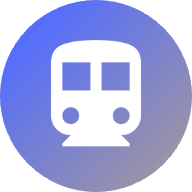
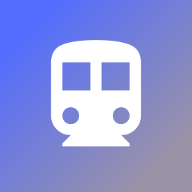
chore: 아이콘 이미지파일 수정

diff --git a/mysubway-pwa/public/sw.js b/mysubway-pwa/public/sw.js
@@ -1,1 +1,1 @@
-if(!self.define){let e,s={};const a=(a,n)=>(a=new URL(a+".js",n).href,s[a]||new Promise(s=>{if("document"in self){const e=document.createElement("script");e.src=a,e.onload=s,document.head.appendChild(e)}else e=a,importScripts(a),s()}).then(()=>{let e=s[a];if(!e)throw new Error(`Module ${a} didn’t register its module`);return e}));self.define=(n,i)=>{const t=e||("document"in self?document.currentScript.src:"")||location.href;if(s[t])return;let c={};const o=e=>a(e,t),r={module:{uri:t},exports:c,require:o};s[t]=Promise.all(n.map(e=>r[e]||o(e))).then(e=>(i(...e),c))}}define(["./workbox-4754cb34"],function(e){"use strict";importScripts(),self.skipWaiting(),e.clientsClaim(),e.precacheAndRoute([{url:"/_next/app-build-manifest.json",revision:"2cda8dfa4ddecfea06740d83e442d178"},{url:"/_next/static/chunks/4bd1b696-67ee12fb04071d3b.js",revision:"kUHfXqYyoOY7CD3_bs3oo"},{url:"/_next/static/chunks/63-11f4d058746abff6.js",revision:"kUHfXqYyoOY7CD3_bs3oo"},{url:"/_next/static/chunks/684-42609a042cd3abcf.js",revision:"kUHfXqYyoOY7CD3_bs3oo"},{url:"/_next/static/chunks/app/_not-found/page-f08302ee705a96b1.js",revision:"kUHfXqYyoOY7CD3_bs3oo"},{url:"/_next/static/chunks/app/layout-9bb7a2d1016d411d.js",revision:"kUHfXqYyoOY7CD3_bs3oo"},{url:"/_next/static/chunks/app/page-36ecf300b3f2c124.js",revision:"kUHfXqYyoOY7CD3_bs3oo"},{url:"/_next/static/chunks/framework-f593a28cde54158e.js",revision:"kUHfXqYyoOY7CD3_bs3oo"},{url:"/_next/static/chunks/main-3f62defe5261c06a.js",revision:"kUHfXqYyoOY7CD3_bs3oo"},{url:"/_next/static/chunks/main-app-a4836f5e9693b294.js",revision:"kUHfXqYyoOY7CD3_bs3oo"},{url:"/_next/static/chunks/pages/_app-da15c11dea942c36.js",revision:"kUHfXqYyoOY7CD3_bs3oo"},{url:"/_next/static/chunks/pages/_error-cc3f077a18ea1793.js",revision:"kUHfXqYyoOY7CD3_bs3oo"},{url:"/_next/static/chunks/polyfills-42372ed130431b0a.js",revision:"846118c33b2c0e922d7b3a7676f81f6f"},{url:"/_next/static/chunks/webpack-f029a09104d09cbc.js",revision:"kUHfXqYyoOY7CD3_bs3oo"},{url:"/_next/static/css/f0411033d528775d.css",revision:"f0411033d528775d"},{url:"/_next/static/kUHfXqYyoOY7CD3_bs3oo/_buildManifest.js",revision:"56313a2fa41efe17a9286c47ac6aacba"},{url:"/_next/static/kUHfXqYyoOY7CD3_bs3oo/_ssgManifest.js",revision:"b6652df95db52feb4daf4eca35380933"},{url:"/_next/static/media/569ce4b8f30dc480-s.p.woff2",revision:"ef6cefb32024deac234e82f932a95cbd"},{url:"/_next/static/media/747892c23ea88013-s.woff2",revision:"a0761690ccf4441ace5cec893b82d4ab"},{url:"/_next/static/media/8d697b304b401681-s.woff2",revision:"cc728f6c0adb04da0dfcb0fc436a8ae5"},{url:"/_next/static/media/93f479601ee12b01-s.p.woff2",revision:"da83d5f06d825c5ae65b7cca706cb312"},{url:"/_next/static/media/9610d9e46709d722-s.woff2",revision:"7b7c0ef93df188a852344fc272fc096b"},{url:"/_next/static/media/ba015fad6dcf6784-s.woff2",revision:"8ea4f719af3312a055caf09f34c89a77"},{url:"/file.svg",revision:"d09f95206c3fa0bb9bd9fefabfd0ea71"},{url:"/globe.svg",revision:"2aaafa6a49b6563925fe440891e32717"},{url:"/icon-192.png",revision:"ad044dfae40bc1a12b650b7ca63116ed"},{url:"/icon-512.png",revision:"059b7d82051e21e6c5b2fdbbf6094401"},{url:"/manifest.json",revision:"d41d8cd98f00b204e9800998ecf8427e"},{url:"/next.svg",revision:"8e061864f388b47f33a1c3780831193e"},{url:"/vercel.svg",revision:"c0af2f507b369b085b35ef4bbe3bcf1e"},{url:"/window.svg",revision:"a2760511c65806022ad20adf74370ff3"}],{ignoreURLParametersMatching:[]}),e.cleanupOutdatedCaches(),e.registerRoute("/",new e.NetworkFirst({cacheName:"start-url",plugins:[{cacheWillUpdate:async({request:e,response:s,event:a,state:n})=>s&&"opaqueredirect"===s.type?new Response(s.body,{status:200,statusText:"OK",headers:s.headers}):s}]}),"GET"),e.registerRoute(/^https:\/\/fonts\.(?:gstatic)\.com\/.*/i,new e.CacheFirst({cacheName:"google-fonts-webfonts",plugins:[new e.ExpirationPlugin({maxEntries:4,maxAgeSeconds:31536e3})]}),"GET"),e.registerRoute(/^https:\/\/fonts\.(?:googleapis)\.com\/.*/i,new e.StaleWhileRevalidate({cacheName:"google-fonts-stylesheets",plugins:[new e.ExpirationPlugin({maxEntries:4,maxAgeSeconds:604800})]}),"GET"),e.registerRoute(/\.(?:eot|otf|ttc|ttf|woff|woff2|font.css)$/i,new e.StaleWhileRevalidate({cacheName:"static-font-assets",plugins:[new e.ExpirationPlugin({maxEntries:4,maxAgeSeconds:604800})]}),"GET"),e.registerRoute(/\.(?:jpg|jpeg|gif|png|svg|ico|webp)$/i,new e.StaleWhileRevalidate({cacheName:"static-image-assets",plugins:[new e.ExpirationPlugin({maxEntries:64,maxAgeSeconds:86400})]}),"GET"),e.registerRoute(/\/_next\/image\?url=.+$/i,new e.StaleWhileRevalidate({cacheName:"next-image",plugins:[new e.ExpirationPlugin({maxEntries:64,maxAgeSeconds:86400})]}),"GET"),e.registerRoute(/\.(?:mp3|wav|ogg)$/i,new e.CacheFirst({cacheName:"static-audio-assets",plugins:[new e.RangeRequestsPlugin,new e.ExpirationPlugin({maxEntries:32,maxAgeSeconds:86400})]}),"GET"),e.registerRoute(/\.(?:mp4)$/i,new e.CacheFirst({cacheName:"static-video-assets",plugins:[new e.RangeRequestsPlugin,new e.ExpirationPlugin({maxEntries:32,maxAgeSeconds:86400})]}),"GET"),e.registerRoute(/\.(?:js)$/i,new e.StaleWhileRevalidate({cacheName:"static-js-assets",plugins:[new e.ExpirationPlugin({maxEntries:32,maxAgeSeconds:86400})]}),"GET"),e.registerRoute(/\.(?:css|less)$/i,new e.StaleWhileRevalidate({cacheName:"static-style-assets",plugins:[new e.ExpirationPlugin({maxEntries:32,maxAgeSeconds:86400})]}),"GET"),e.registerRoute(/\/_next\/data\/.+\/.+\.json$/i,new e.StaleWhileRevalidate({cacheName:"next-data",plugins:[new e.ExpirationPlugin({maxEntries:32,maxAgeSeconds:86400})]}),"GET"),e.registerRoute(/\.(?:json|xml|csv)$/i,new e.NetworkFirst({cacheName:"static-data-assets",plugins:[new e.ExpirationPlugin({maxEntries:32,maxAgeSeconds:86400})]}),"GET"),e.registerRoute(({url:e})=>{if(!(self.origin===e.origin))return!1;const s=e.pathname;return!s.startsWith("/api/auth/")&&!!s.startsWith("/api/")},new e.NetworkFirst({cacheName:"apis",networkTimeoutSeconds:10,plugins:[new e.ExpirationPlugin({maxEntries:16,maxAgeSeconds:86400})]}),"GET"),e.registerRoute(({url:e})=>{if(!(self.origin===e.origin))return!1;return!e.pathname.startsWith("/api/")},new e.NetworkFirst({cacheName:"others",networkTimeoutSeconds:10,plugins:[new e.ExpirationPlugin({maxEntries:32,maxAgeSeconds:86400})]}),"GET"),e.registerRoute(({url:e})=>!(self.origin===e.origin),new e.NetworkFirst({cacheName:"cross-origin",networkTimeoutSeconds:10,plugins:[new e.ExpirationPlugin({maxEntries:32,maxAgeSeconds:3600})]}),"GET")});
+if(!self.define){let e,s={};const a=(a,n)=>(a=new URL(a+".js",n).href,s[a]||new Promise(s=>{if("document"in self){const e=document.createElement("script");e.src=a,e.onload=s,document.head.appendChild(e)}else e=a,importScripts(a),s()}).then(()=>{let e=s[a];if(!e)throw new Error(`Module ${a} didn’t register its module`);return e}));self.define=(n,i)=>{const t=e||("document"in self?document.currentScript.src:"")||location.href;if(s[t])return;let c={};const r=e=>a(e,t),o={module:{uri:t},exports:c,require:r};s[t]=Promise.all(n.map(e=>o[e]||r(e))).then(e=>(i(...e),c))}}define(["./workbox-4754cb34"],function(e){"use strict";importScripts(),self.skipWaiting(),e.clientsClaim(),e.precacheAndRoute([{url:"/_next/app-build-manifest.json",revision:"2cda8dfa4ddecfea06740d83e442d178"},{url:"/_next/static/9XYmy9OXFUXywhEUKAx4W/_buildManifest.js",revision:"56313a2fa41efe17a9286c47ac6aacba"},{url:"/_next/static/9XYmy9OXFUXywhEUKAx4W/_ssgManifest.js",revision:"b6652df95db52feb4daf4eca35380933"},{url:"/_next/static/chunks/4bd1b696-67ee12fb04071d3b.js",revision:"9XYmy9OXFUXywhEUKAx4W"},{url:"/_next/static/chunks/63-11f4d058746abff6.js",revision:"9XYmy9OXFUXywhEUKAx4W"},{url:"/_next/static/chunks/684-42609a042cd3abcf.js",revision:"9XYmy9OXFUXywhEUKAx4W"},{url:"/_next/static/chunks/app/_not-found/page-f08302ee705a96b1.js",revision:"9XYmy9OXFUXywhEUKAx4W"},{url:"/_next/static/chunks/app/layout-9bb7a2d1016d411d.js",revision:"9XYmy9OXFUXywhEUKAx4W"},{url:"/_next/static/chunks/app/page-36ecf300b3f2c124.js",revision:"9XYmy9OXFUXywhEUKAx4W"},{url:"/_next/static/chunks/framework-f593a28cde54158e.js",revision:"9XYmy9OXFUXywhEUKAx4W"},{url:"/_next/static/chunks/main-3f62defe5261c06a.js",revision:"9XYmy9OXFUXywhEUKAx4W"},{url:"/_next/static/chunks/main-app-a4836f5e9693b294.js",revision:"9XYmy9OXFUXywhEUKAx4W"},{url:"/_next/static/chunks/pages/_app-da15c11dea942c36.js",revision:"9XYmy9OXFUXywhEUKAx4W"},{url:"/_next/static/chunks/pages/_error-cc3f077a18ea1793.js",revision:"9XYmy9OXFUXywhEUKAx4W"},{url:"/_next/static/chunks/polyfills-42372ed130431b0a.js",revision:"846118c33b2c0e922d7b3a7676f81f6f"},{url:"/_next/static/chunks/webpack-f029a09104d09cbc.js",revision:"9XYmy9OXFUXywhEUKAx4W"},{url:"/_next/static/css/f0411033d528775d.css",revision:"f0411033d528775d"},{url:"/_next/static/media/569ce4b8f30dc480-s.p.woff2",revision:"ef6cefb32024deac234e82f932a95cbd"},{url:"/_next/static/media/747892c23ea88013-s.woff2",revision:"a0761690ccf4441ace5cec893b82d4ab"},{url:"/_next/static/media/8d697b304b401681-s.woff2",revision:"cc728f6c0adb04da0dfcb0fc436a8ae5"},{url:"/_next/static/media/93f479601ee12b01-s.p.woff2",revision:"da83d5f06d825c5ae65b7cca706cb312"},{url:"/_next/static/media/9610d9e46709d722-s.woff2",revision:"7b7c0ef93df188a852344fc272fc096b"},{url:"/_next/static/media/ba015fad6dcf6784-s.woff2",revision:"8ea4f719af3312a055caf09f34c89a77"},{url:"/file.svg",revision:"d09f95206c3fa0bb9bd9fefabfd0ea71"},{url:"/globe.svg",revision:"2aaafa6a49b6563925fe440891e32717"},{url:"/icon-192-1.png",revision:"ad044dfae40bc1a12b650b7ca63116ed"},{url:"/icon-192.png",revision:"50fc72dff467b0d9745e19e545fa28d9"},{url:"/icon-512-2.png",revision:"059b7d82051e21e6c5b2fdbbf6094401"},{url:"/icon-512.png",revision:"efb98293216c856ad0111be67f01892b"},{url:"/manifest.json",revision:"b4a5915e4cfc6cb5a025413e34b653bc"},{url:"/next.svg",revision:"8e061864f388b47f33a1c3780831193e"},{url:"/vercel.svg",revision:"c0af2f507b369b085b35ef4bbe3bcf1e"},{url:"/window.svg",revision:"a2760511c65806022ad20adf74370ff3"}],{ignoreURLParametersMatching:[]}),e.cleanupOutdatedCaches(),e.registerRoute("/",new e.NetworkFirst({cacheName:"start-url",plugins:[{cacheWillUpdate:async({request:e,response:s,event:a,state:n})=>s&&"opaqueredirect"===s.type?new Response(s.body,{status:200,statusText:"OK",headers:s.headers}):s}]}),"GET"),e.registerRoute(/^https:\/\/fonts\.(?:gstatic)\.com\/.*/i,new e.CacheFirst({cacheName:"google-fonts-webfonts",plugins:[new e.ExpirationPlugin({maxEntries:4,maxAgeSeconds:31536e3})]}),"GET"),e.registerRoute(/^https:\/\/fonts\.(?:googleapis)\.com\/.*/i,new e.StaleWhileRevalidate({cacheName:"google-fonts-stylesheets",plugins:[new e.ExpirationPlugin({maxEntries:4,maxAgeSeconds:604800})]}),"GET"),e.registerRoute(/\.(?:eot|otf|ttc|ttf|woff|woff2|font.css)$/i,new e.StaleWhileRevalidate({cacheName:"static-font-assets",plugins:[new e.ExpirationPlugin({maxEntries:4,maxAgeSeconds:604800})]}),"GET"),e.registerRoute(/\.(?:jpg|jpeg|gif|png|svg|ico|webp)$/i,new e.StaleWhileRevalidate({cacheName:"static-image-assets",plugins:[new e.ExpirationPlugin({maxEntries:64,maxAgeSeconds:86400})]}),"GET"),e.registerRoute(/\/_next\/image\?url=.+$/i,new e.StaleWhileRevalidate({cacheName:"next-image",plugins:[new e.ExpirationPlugin({maxEntries:64,maxAgeSeconds:86400})]}),"GET"),e.registerRoute(/\.(?:mp3|wav|ogg)$/i,new e.CacheFirst({cacheName:"static-audio-assets",plugins:[new e.RangeRequestsPlugin,new e.ExpirationPlugin({maxEntries:32,maxAgeSeconds:86400})]}),"GET"),e.registerRoute(/\.(?:mp4)$/i,new e.CacheFirst({cacheName:"static-video-assets",plugins:[new e.RangeRequestsPlugin,new e.ExpirationPlugin({maxEntries:32,maxAgeSeconds:86400})]}),"GET"),e.registerRoute(/\.(?:js)$/i,new e.StaleWhileRevalidate({cacheName:"static-js-assets",plugins:[new e.ExpirationPlugin({maxEntries:32,maxAgeSeconds:86400})]}),"GET"),e.registerRoute(/\.(?:css|less)$/i,new e.StaleWhileRevalidate({cacheName:"static-style-assets",plugins:[new e.ExpirationPlugin({maxEntries:32,maxAgeSeconds:86400})]}),"GET"),e.registerRoute(/\/_next\/data\/.+\/.+\.json$/i,new e.StaleWhileRevalidate({cacheName:"next-data",plugins:[new e.ExpirationPlugin({maxEntries:32,maxAgeSeconds:86400})]}),"GET"),e.registerRoute(/\.(?:json|xml|csv)$/i,new e.NetworkFirst({cacheName:"static-data-assets",plugins:[new e.ExpirationPlugin({maxEntries:32,maxAgeSeconds:86400})]}),"GET"),e.registerRoute(({url:e})=>{if(!(self.origin===e.origin))return!1;const s=e.pathname;return!s.startsWith("/api/auth/")&&!!s.startsWith("/api/")},new e.NetworkFirst({cacheName:"apis",networkTimeoutSeconds:10,plugins:[new e.ExpirationPlugin({maxEntries:16,maxAgeSeconds:86400})]}),"GET"),e.registerRoute(({url:e})=>{if(!(self.origin===e.origin))return!1;return!e.pathname.startsWith("/api/")},new e.NetworkFirst({cacheName:"others",networkTimeoutSeconds:10,plugins:[new e.ExpirationPlugin({maxEntries:32,maxAgeSeconds:86400})]}),"GET"),e.registerRoute(({url:e})=>!(self.origin===e.origin),new e.NetworkFirst({cacheName:"cross-origin",networkTimeoutSeconds:10,plugins:[new e.ExpirationPlugin({maxEntries:32,maxAgeSeconds:3600})]}),"GET")});
